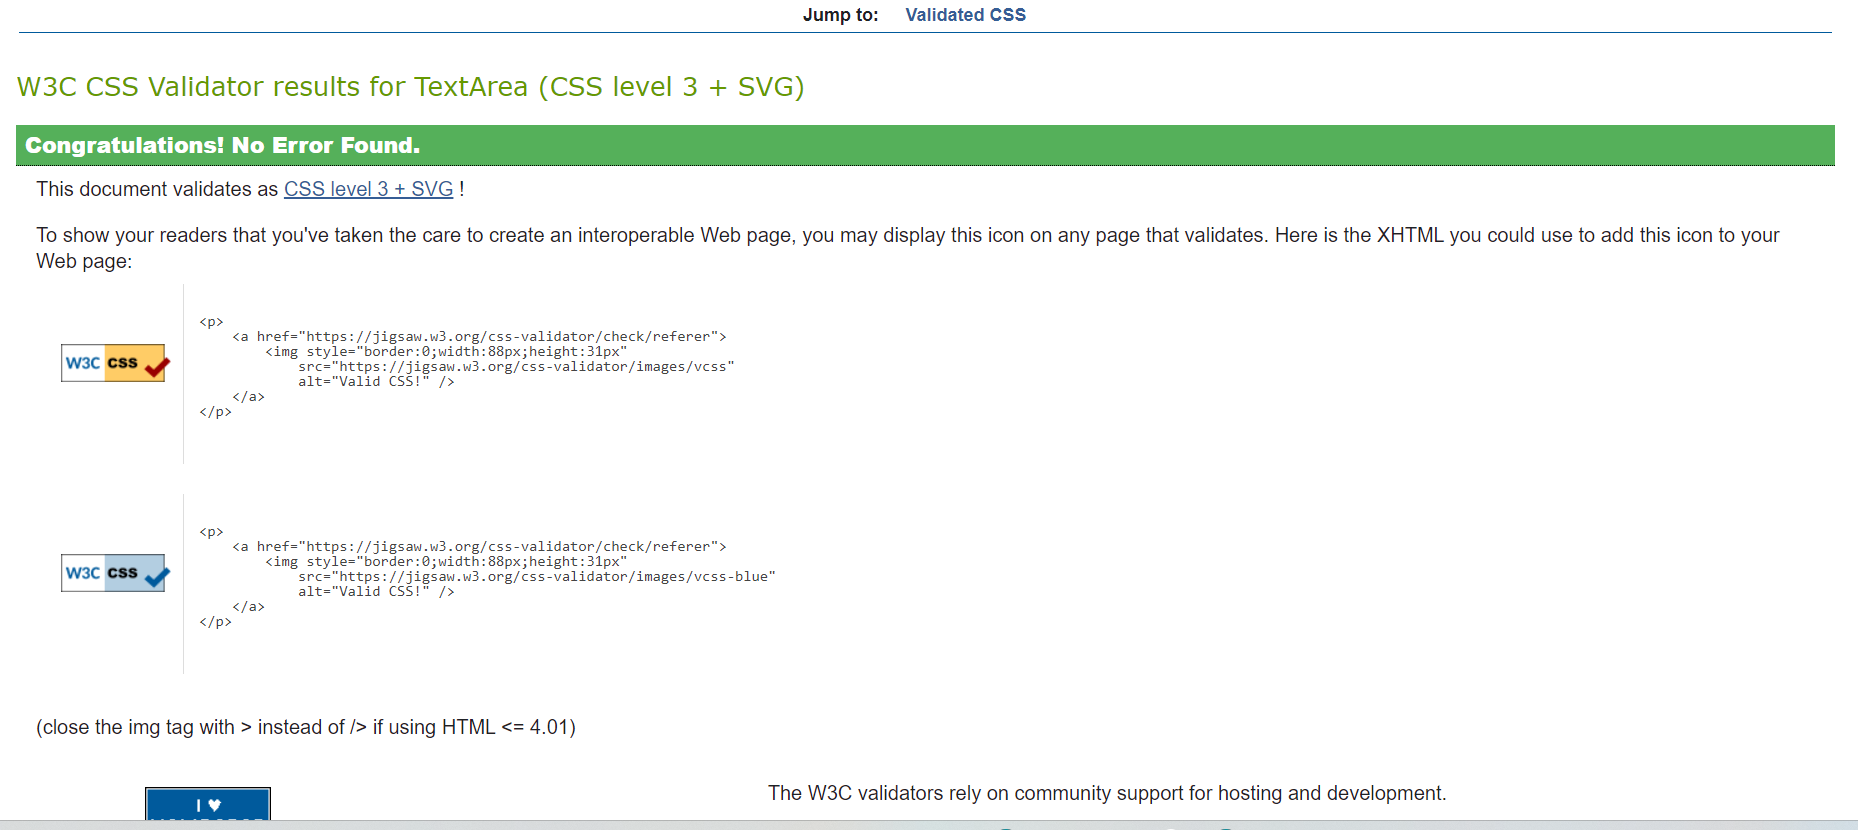
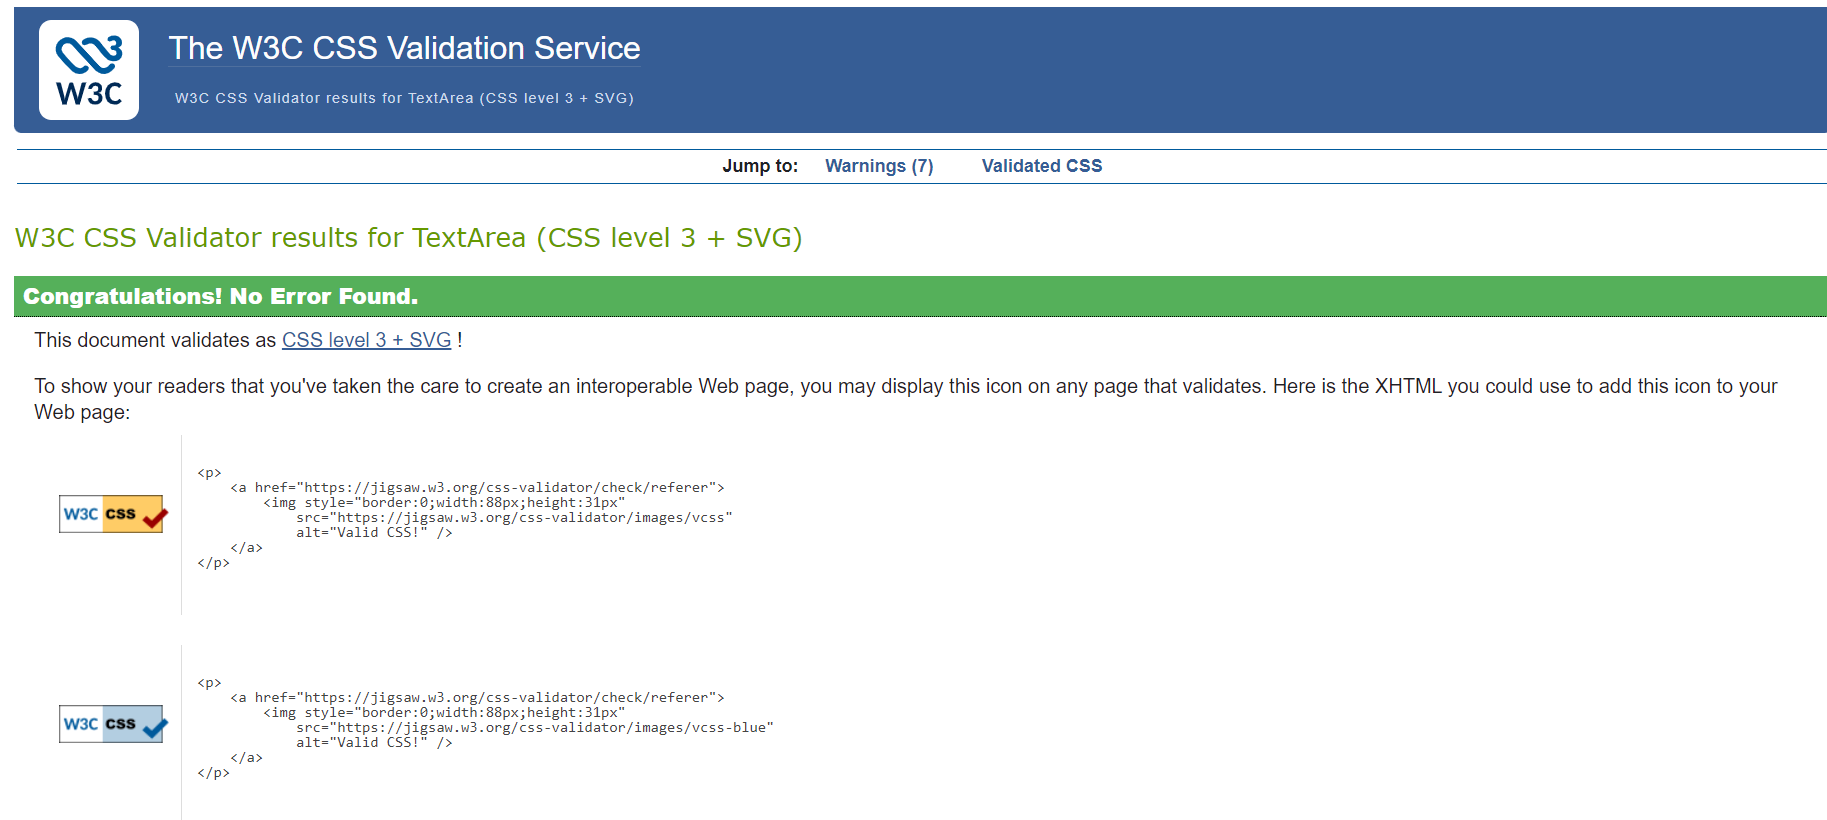
Enhance UI with backdrop filters for frosted glass effect; update web manifest with app details; improve brightness slider accessibility and functionality

diff --git a/assets/css/style.css b/assets/css/style.css
@@ -42,6 +42,7 @@ body {
     align-items: center;
     cursor: pointer;
     z-index: 999;
+    -webkit-backdrop-filter: blur(10px);
     backdrop-filter: blur(10px);
     border: 1px solid rgba(255, 255, 255, 0.4);
     color: white;
@@ -135,10 +136,9 @@ main {
 .time-weather {
     background: rgba(255, 255, 255, 0.1);
     /* Gradient background */
-    backdrop-filter: blur(30px);
-    /* Blur effect for frosted glass look */
     -webkit-backdrop-filter: blur(30px);
     /* For Safari*/
+    backdrop-filter: blur(30px);
 
     border-radius: 16px;
     /* Rounded corners */
@@ -154,9 +154,9 @@ main {
     /* fill the time-weather column */
     background: rgba(255, 255, 255, 0.1);
 
-    backdrop-filter: blur(30px);
     -webkit-backdrop-filter: blur(30px);
     /* For Safari*/
+    backdrop-filter: blur(30px);
 
     border-radius: 10px;
     overflow: hidden;
@@ -202,10 +202,9 @@ main {
     /* Text color */
     background: rgba(255, 255, 255, 0.2);
     /* Gradient background */
-    backdrop-filter: blur(30px);
-    /* Blur effect for frosted glass look */
     -webkit-backdrop-filter: blur(30px);
     /* For Safari*/
+    backdrop-filter: blur(30px);
 
     border-radius: 16px;
     /* Rounded corners */

diff --git a/assets/js/script.js b/assets/js/script.js
@@ -11,7 +11,7 @@ const toggleBtns = [
     document.getElementById('textBtn'),
     document.getElementById('brightnessBtn'),
 ];
-
+let brightnessSlider = document.getElementById('brightnessSlider')
 let menuOpen = false;
 
 clickBtn.addEventListener('click', function () {
@@ -50,12 +50,13 @@ document.getElementById('textColor').addEventListener('input', function () {
 
 // Brightness toggle
 function toggleBrightness() {
-    brightnessSlider.style.display =
+    brightnessSlider.style.display = document.getElementById("brightnessSlider");
         brightnessSlider.style.display === 'block' ? 'none' : 'block';
 }
 
 brightnessSlider.addEventListener('input', function () {
     const alpha = (this.value / 100).toFixed(2);
+     let bgOverlay = document.getElementById("bgOverlay");
     bgOverlay.style.background = `rgba(0, 0, 0, ${alpha})`;
 });
 

diff --git a/index.html b/index.html
@@ -49,7 +49,8 @@
         <!-- overlay for brightness -->
         <div id="bgOverlay"></div>
         <div id="brightnessBtn" onclick="toggleBrightness()">☀</div>
-        <input type="range" id="brightnessSlider" min="0" max="80" value="0" step="1">
+        <label for="brightnessSlider" class="visually-hidden">Brightness</label>
+        <input type="range" id="brightnessSlider" min="0" max="80" value="0" step="1" title="Brightness" aria-label="Brightness slider">
     </header>
 
 
@@ -121,7 +122,7 @@
                             <input type="text" id="city-input" placeholder="Enter city name">
 
                             <!-- Button to trigger search (uses Font Awesome icon) -->
-                            <button id="search-btn" class="btn" onclick="checkWeather()">
+                            <button id="search-btn" class="btn" onclick="checkWeather()" title="Search" aria-label="Search city">
                                 <i class="fa-brands fa-sistrix"></i>
                             </button>
                         </div>